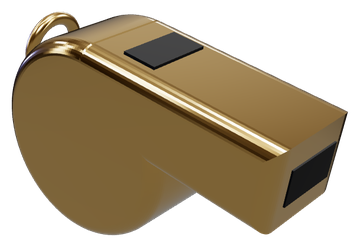
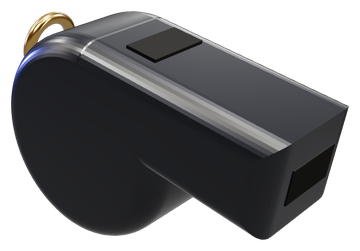
Fluier negru din plastic, fără subtitlu
Claude-Session: https://claude.ai/code/session_0119jX5CRKHW2hPaVCNdqpBb

diff --git a/index.html b/index.html
@@ -1215,7 +1215,7 @@ function renderList() {
 
   if (!list.length) {
     view.innerHTML = (tab === 'upcoming'
-      ? '<div class="empty"><span class="whistle"><img src="img/whistle.png" alt="" width="180" height="124"></span><b>Nicio delegare viitoare</b>Când primești mailul de delegare, meciul apare aici.</div>'
+      ? '<div class="empty"><span class="whistle"><img src="img/whistle.png" alt="" width="180" height="126"></span><b>Nicio delegare viitoare</b></div>'
       : '<div class="empty"><b>Niciun meci arbitrat încă</b>Meciurile apar aici după ce trece data lor.</div>') + addBtn;
     return;
   }

diff --git a/sw.js b/sw.js
@@ -1,6 +1,6 @@
 // Service worker: păstrează aplicația în cache ca să se deschidă și fără semnal.
 // Datele (Supabase, Apps Script) merg mereu la rețea; ultima listă e salvată de aplicație.
-const CACHE = 'meciuri-v23';
+const CACHE = 'meciuri-v24';
 const SHELL = ['./', './index.html', './manifest.json', './icons/icon-192.png', './icons/apple-touch-icon.png'];
 
 self.addEventListener('install', (e) => {
